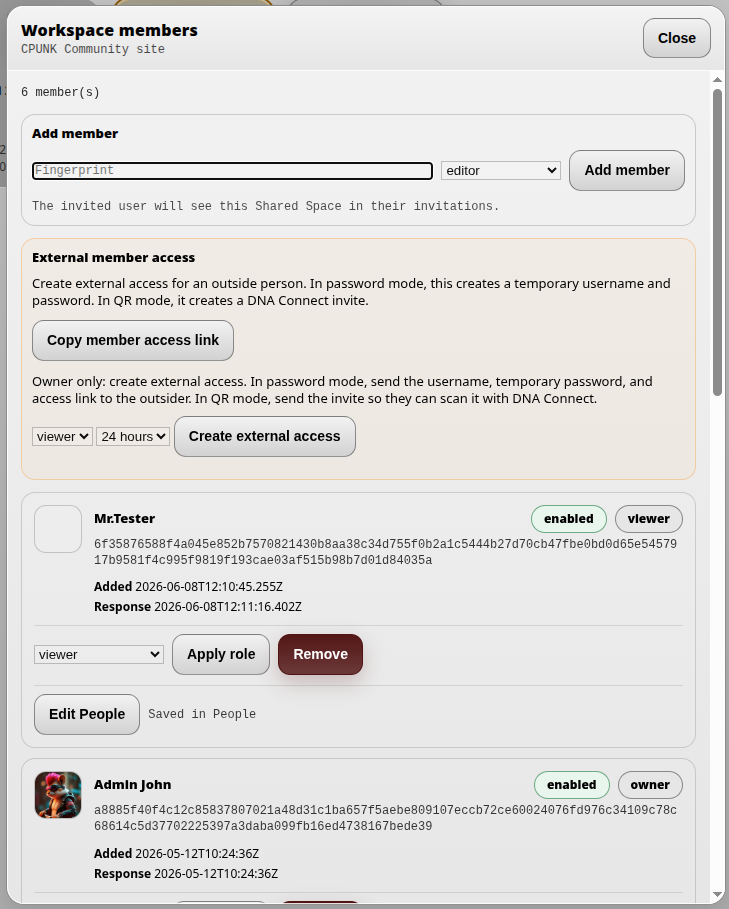
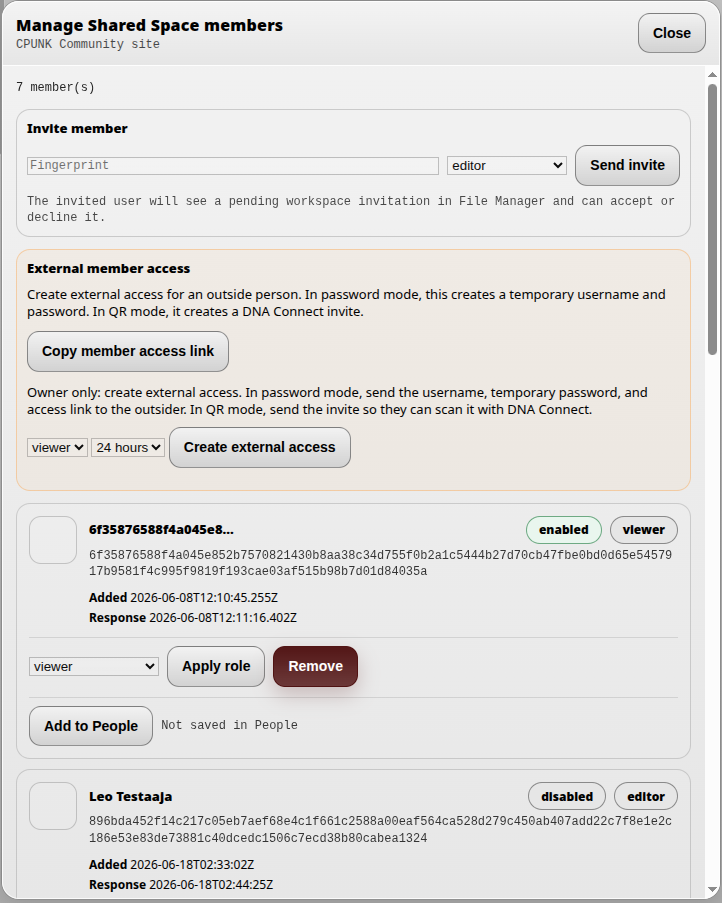
docs: expand shared workspace guide

Changed region(s): [[0.0, 0.0, 1.0, 1.0]]

diff --git a/docs/wiki/pages/apps/file-manager.html b/docs/wiki/pages/apps/file-manager.html
@@ -382,6 +382,35 @@
   </figure>
 
   <p>
+    The invited user sees the pending invitation in their own File Manager. After
+    accepting the invitation, they become a workspace member and can switch to the
+    workspace from the <strong>Location</strong> dropdown in the File Manager top bar.
+  </p>
+
+  <figure>
+    <a href="../../assets/images/filemanager/workspace/inv_EN.png" target="_blank" rel="noopener">
+      <img class="wiki-img wiki-img-medium" src="../../assets/images/filemanager/workspace/inv_EN.png" alt="Pending shared workspace invitation in File Manager" />
+    </a>
+    <figcaption>Accepting a shared workspace invitation</figcaption>
+  </figure>
+
+  <p>
+    The user can leave the workspace from the lower part of the
+    <strong>Members</strong> dialog by selecting <strong>Leave workspace</strong>.
+    After leaving, the workspace disappears from the <strong>Location</strong>
+    dropdown unless the user is invited again.
+  </p>
+
+  <figure>
+    <a href="../../assets/images/filemanager/workspace/leave_EN.png" target="_blank" rel="noopener">
+      <img class="wiki-img wiki-img-medium" src="../../assets/images/filemanager/workspace/leave_EN.png" alt="Leaving a shared workspace from the Members dialog" />
+    </a>
+    <figcaption>Leaving a shared workspace</figcaption>
+  </figure>
+
+
+
+  <p>
     The <strong>Create external access</strong> button creates a single-use invite link
     that you can send to another person. From that link, the recipient opens the
     access page and signs in to the workspace, which grants access to the shared area.
